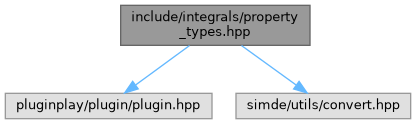
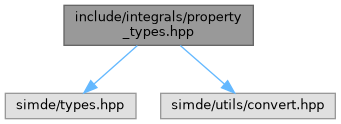
deploy: 89b65a1aafeb8caae40e4ccc60f7d78f3d80cacb

diff --git a/integrals_cxx_api/export__property__types_8hpp_source.html b/integrals_cxx_api/export__property__types_8hpp_source.html
@@ -5,7 +5,7 @@
 <meta http-equiv="X-UA-Compatible" content="IE=11"/>
 <meta name="generator" content="Doxygen 1.9.8"/>
 <meta name="viewport" content="width=device-width, initial-scale=1"/>
-<title>integrals: include/integrals/property_types.hpp Source File</title>
+<title>integrals: src/python/export_property_types.hpp Source File</title>
 <link href="tabs.css" rel="stylesheet" type="text/css"/>
 <script type="text/javascript" src="jquery.js"></script>
 <script type="text/javascript" src="dynsections.js"></script>
@@ -74,15 +74,15 @@ $(document).ready(function() { init_codefold(0); });
 
 <div id="nav-path" class="navpath">
   <ul>
-<li class="navelem"><a class="el" href="dir_d44c64559bbebec7f509842c48db8b23.html">include</a></li><li class="navelem"><a class="el" href="dir_e27e85dacbc4aa96e3483d9ff13306bd.html">integrals</a></li>  </ul>
+<li class="navelem"><a class="el" href="dir_68267d1309a1af8e8297ef4c3efbcdba.html">src</a></li><li class="navelem"><a class="el" href="dir_5c0d64f70903e893b1efe571a4b8de29.html">python</a></li>  </ul>
 </div>
 </div><!-- top -->
 <div class="header">
-  <div class="headertitle"><div class="title">property_types.hpp</div></div>
+  <div class="headertitle"><div class="title">export_property_types.hpp</div></div>
 </div><!--header-->
 <div class="contents">
-<a href="property__types_8hpp.html">Go to the documentation of this file.</a><div class="fragment"><div class="line"><a id="l00001" name="l00001"></a><span class="lineno">    1</span><span class="comment">/*</span></div>
-<div class="line"><a id="l00002" name="l00002"></a><span class="lineno">    2</span><span class="comment"> * Copyright 2025 NWChemEx-Project</span></div>
+<div class="fragment"><div class="line"><a id="l00001" name="l00001"></a><span class="lineno">    1</span><span class="comment">/*</span></div>
+<div class="line"><a id="l00002" name="l00002"></a><span class="lineno">    2</span><span class="comment"> * Copyright 2026 NWChemEx-Project</span></div>
 <div class="line"><a id="l00003" name="l00003"></a><span class="lineno">    3</span><span class="comment"> *</span></div>
 <div class="line"><a id="l00004" name="l00004"></a><span class="lineno">    4</span><span class="comment"> * Licensed under the Apache License, Version 2.0 (the &quot;License&quot;);</span></div>
 <div class="line"><a id="l00005" name="l00005"></a><span class="lineno">    5</span><span class="comment"> * you may not use this file except in compliance with the License.</span></div>
@@ -97,17 +97,21 @@ $(document).ready(function() { init_codefold(0); });
 <div class="line"><a id="l00014" name="l00014"></a><span class="lineno">   14</span><span class="comment"> * limitations under the License.</span></div>
 <div class="line"><a id="l00015" name="l00015"></a><span class="lineno">   15</span><span class="comment"> */</span></div>
 <div class="line"><a id="l00016" name="l00016"></a><span class="lineno">   16</span> </div>
-<div class="line"><a id="l00023" name="l00023"></a><span class="lineno">   23</span><span class="preprocessor">#pragma once</span></div>
-<div class="line"><a id="l00024" name="l00024"></a><span class="lineno">   24</span><span class="preprocessor">#include &lt;simde/types.hpp&gt;</span></div>
-<div class="line"><a id="l00025" name="l00025"></a><span class="lineno">   25</span><span class="preprocessor">#include &lt;simde/utils/convert.hpp&gt;</span></div>
-<div class="line"><a id="l00026" name="l00026"></a><span class="lineno">   26</span> </div>
-<div class="line"><a id="l00031" name="l00031"></a><span class="lineno">   31</span><span class="keyword">namespace </span><a class="code hl_namespace" href="namespaceintegrals_1_1property__types.html">integrals::property_types</a> {</div>
-<div class="line"><a id="l00032" name="l00032"></a><span class="lineno">   32</span> </div>
-<div class="line"><a id="l00033" name="l00033"></a><span class="lineno">   33</span><span class="keyword">using </span>DecontractBasisSet =</div>
-<div class="line"><a id="l00034" name="l00034"></a><span class="lineno">   34</span>  simde::Convert&lt;simde::type::ao_basis_set, simde::type::ao_basis_set&gt;;</div>
-<div class="line"><a id="l00035" name="l00035"></a><span class="lineno">   35</span> </div>
-<div class="line"><a id="l00036" name="l00036"></a><span class="lineno">   36</span>} <span class="comment">// end namespace integrals::property_types</span></div>
+<div class="line"><a id="l00017" name="l00017"></a><span class="lineno">   17</span><span class="preprocessor">#include &lt;<a class="code" href="property__types_8hpp.html">integrals/property_types.hpp</a>&gt;</span></div>
+<div class="line"><a id="l00018" name="l00018"></a><span class="lineno">   18</span><span class="preprocessor">#include &lt;pluginplay/property_type/property_type.hpp&gt;</span></div>
+<div class="line"><a id="l00019" name="l00019"></a><span class="lineno">   19</span> </div>
+<div class="line"><a id="l00020" name="l00020"></a><span class="lineno">   20</span><span class="keyword">namespace </span><a class="code hl_namespace" href="namespaceintegrals.html">integrals</a> {</div>
+<div class="line"><a id="l00021" name="l00021"></a><span class="lineno">   21</span> </div>
+<div class="line"><a id="l00022" name="l00022"></a><span class="lineno">   22</span><span class="keyword">inline</span> <span class="keywordtype">void</span> export_property_types(<span class="keyword">auto</span>&amp; m) {</div>
+<div class="line"><a id="l00023" name="l00023"></a><span class="lineno">   23</span>    <span class="keyword">using namespace </span><a class="code hl_namespace" href="namespaceintegrals_1_1property__types.html">integrals::property_types</a>;</div>
+<div class="line"><a id="l00024" name="l00024"></a><span class="lineno">   24</span> </div>
+<div class="line"><a id="l00025" name="l00025"></a><span class="lineno">   25</span>    EXPORT_PROPERTY_TYPE(DecontractBasisSet, m);</div>
+<div class="line"><a id="l00026" name="l00026"></a><span class="lineno">   26</span>}</div>
+<div class="line"><a id="l00027" name="l00027"></a><span class="lineno">   27</span> </div>
+<div class="line"><a id="l00028" name="l00028"></a><span class="lineno">   28</span>} <span class="comment">// namespace integrals</span></div>
 <div class="ttc" id="anamespaceintegrals_1_1property__types_html"><div class="ttname"><a href="namespaceintegrals_1_1property__types.html">integrals::property_types</a></div><div class="ttdoc">The namespace for property types defined by the Integrals library.</div></div>
+<div class="ttc" id="anamespaceintegrals_html"><div class="ttname"><a href="namespaceintegrals.html">integrals</a></div><div class="ttdoc">The primary namespace for the Integrals library.</div><div class="ttdef"><b>Definition</b> ao_integrals.hpp:20</div></div>
+<div class="ttc" id="aproperty__types_8hpp_html"><div class="ttname"><a href="property__types_8hpp.html">property_types.hpp</a></div></div>
 </div><!-- fragment --></div><!-- contents -->
 <!-- start footer part -->
 <hr class="footer"/><address class="footer"><small>

diff --git a/integrals_cxx_api/dir_000006_000002.html b/integrals_cxx_api/dir_000006_000002.html
@@ -5,7 +5,7 @@
 <meta http-equiv="X-UA-Compatible" content="IE=11"/>
 <meta name="generator" content="Doxygen 1.9.8"/>
 <meta name="viewport" content="width=device-width, initial-scale=1"/>
-<title>integrals: src Directory Reference</title>
+<title>integrals: src/python -&gt; include Relation</title>
 <link href="tabs.css" rel="stylesheet" type="text/css"/>
 <script type="text/javascript" src="jquery.js"></script>
 <script type="text/javascript" src="dynsections.js"></script>
@@ -69,37 +69,11 @@ $(function() {
 
 <div id="nav-path" class="navpath">
   <ul>
-<li class="navelem"><a class="el" href="dir_68267d1309a1af8e8297ef4c3efbcdba.html">src</a></li>  </ul>
+<li class="navelem"><a class="el" href="dir_68267d1309a1af8e8297ef4c3efbcdba.html">src</a></li><li class="navelem"><a class="el" href="dir_5c0d64f70903e893b1efe571a4b8de29.html">python</a></li>  </ul>
 </div>
 </div><!-- top -->
-<div class="header">
-  <div class="headertitle"><div class="title">src Directory Reference</div></div>
-</div><!--header-->
 <div class="contents">
-<div class="dynheader">
-Directory dependency graph for src:</div>
-<div class="dyncontent">
-<div class="center"><img src="dir_68267d1309a1af8e8297ef4c3efbcdba_dep.png" border="0" usemap="#adir__68267d1309a1af8e8297ef4c3efbcdba__dep" alt="src"/></div>
-<map name="adir__68267d1309a1af8e8297ef4c3efbcdba__dep" id="adir__68267d1309a1af8e8297ef4c3efbcdba__dep">
-<area shape="rect" href="dir_a50b49bc3b7c12e387f10bfc5a719320.html" title="integrals" alt="" coords="118,27,197,52"/>
-<area shape="rect" href="dir_d44c64559bbebec7f509842c48db8b23.html" title="include" alt="" coords="73,100,143,125"/>
-<area shape="poly" href="dir_000004_000002.html" alt="" coords="151,54,126,90,122,87,147,51"/>
-<area shape="rect" href="dir_000004_000002.html" title="1" alt="" coords="129,83,138,97"/>
-<area shape="rect" href="dir_5c0d64f70903e893b1efe571a4b8de29.html" title="python" alt="" coords="27,27,93,52"/>
-<area shape="poly" href="dir_000006_000002.html" alt="" coords="70,51,95,87,90,90,66,54"/>
-<area shape="rect" href="dir_000006_000002.html" title="1" alt="" coords="92,73,102,87"/>
-<area shape="rect" href="dir_68267d1309a1af8e8297ef4c3efbcdba.html" alt="" coords="16,16,273,63"/>
-</map>
-</div>
-<table class="memberdecls">
-<tr class="heading"><td colspan="2"><h2 class="groupheader"><a id="subdirs" name="subdirs"></a>
-Directories</h2></td></tr>
-<tr class="memitem:"><td class="memItemLeft" align="right" valign="top"><span class="iconfclosed"></span>&#160;</td><td class="memItemRight" valign="bottom"><a class="el" href="dir_a50b49bc3b7c12e387f10bfc5a719320.html">integrals</a></td></tr>
-<tr class="separator:"><td class="memSeparator" colspan="2">&#160;</td></tr>
-<tr class="memitem:"><td class="memItemLeft" align="right" valign="top"><span class="iconfclosed"></span>&#160;</td><td class="memItemRight" valign="bottom"><a class="el" href="dir_5c0d64f70903e893b1efe571a4b8de29.html">python</a></td></tr>
-<tr class="separator:"><td class="memSeparator" colspan="2">&#160;</td></tr>
-</table>
-</div><!-- contents -->
+<h3>python &rarr; include Relation</h3><table class="dirtab"><tr class="dirtab"><th class="dirtab">File in src/python</th><th class="dirtab">Includes file in include</th></tr><tr class="dirtab"><td class="dirtab"><b>export_property_types.hpp</b></td><td class="dirtab"><a class="el" href="dir_e27e85dacbc4aa96e3483d9ff13306bd.html">integrals</a>&#160;/&#160;<a class="el" href="property__types_8hpp.html">property_types.hpp</a></td></tr></table></div><!-- contents -->
 <!-- start footer part -->
 <hr class="footer"/><address class="footer"><small>
 Generated by&#160;<a href="https://www.doxygen.org/index.html"><img class="footer" src="doxygen.svg" width="104" height="31" alt="doxygen"/></a> 1.9.8

diff --git a/integrals_cxx_api/property__types_8hpp.html b/integrals_cxx_api/property__types_8hpp.html
@@ -79,18 +79,28 @@ $(function() {
   <div class="headertitle"><div class="title">property_types.hpp File Reference</div></div>
 </div><!--header-->
 <div class="contents">
-<div class="textblock"><code>#include &lt;pluginplay/plugin/plugin.hpp&gt;</code><br />
+<div class="textblock"><code>#include &lt;simde/types.hpp&gt;</code><br />
 <code>#include &lt;simde/utils/convert.hpp&gt;</code><br />
 </div><div class="textblock"><div class="dynheader">
 Include dependency graph for property_types.hpp:</div>
 <div class="dyncontent">
 <div class="center"><img src="property__types_8hpp__incl.png" border="0" usemap="#ainclude_2integrals_2property__types_8hpp" alt=""/></div>
 <map name="ainclude_2integrals_2property__types_8hpp" id="ainclude_2integrals_2property__types_8hpp">
-<area shape="rect" title=" " alt="" coords="121,5,310,45"/>
-<area shape="rect" title=" " alt="" coords="5,93,212,119"/>
-<area shape="poly" title=" " alt="" coords="191,48,137,87,134,83,188,43"/>
-<area shape="rect" title=" " alt="" coords="236,93,411,119"/>
-<area shape="poly" title=" " alt="" coords="243,43,297,83,294,87,240,48"/>
+<area shape="rect" title=" " alt="" coords="64,5,253,45"/>
+<area shape="rect" title=" " alt="" coords="5,93,136,119"/>
+<area shape="poly" title=" " alt="" coords="139,48,96,86,92,82,136,44"/>
+<area shape="rect" title=" " alt="" coords="161,93,335,119"/>
+<area shape="poly" title=" " alt="" coords="182,44,226,82,223,86,179,48"/>
+</map>
+</div>
+</div><div class="textblock"><div class="dynheader">
+This graph shows which files directly or indirectly include this file:</div>
+<div class="dyncontent">
+<div class="center"><img src="property__types_8hpp__dep__incl.png" border="0" usemap="#ainclude_2integrals_2property__types_8hppdep" alt=""/></div>
+<map name="ainclude_2integrals_2property__types_8hppdep" id="ainclude_2integrals_2property__types_8hppdep">
+<area shape="rect" title=" " alt="" coords="10,5,199,45"/>
+<area shape="rect" href="export__property__types_8hpp_source.html" title=" " alt="" coords="5,93,204,133"/>
+<area shape="poly" title=" " alt="" coords="107,59,107,93,102,93,102,59"/>
 </map>
 </div>
 </div>
@@ -107,9 +117,9 @@ Namespaces</h2></td></tr>
 </table><table class="memberdecls">
 <tr class="heading"><td colspan="2"><h2 class="groupheader"><a id="typedef-members" name="typedef-members"></a>
 Typedefs</h2></td></tr>
-<tr class="memitem:a740e5702b010b37dd812803f0054ea5f" id="r_a740e5702b010b37dd812803f0054ea5f"><td class="memItemLeft" align="right" valign="top"><a id="a740e5702b010b37dd812803f0054ea5f" name="a740e5702b010b37dd812803f0054ea5f"></a>
-using&#160;</td><td class="memItemRight" valign="bottom"><b>integrals::property_types::decontract_basis_set</b> = simde::Convert&lt; simde::type::ao_basis_set, simde::type::ao_basis_set &gt;</td></tr>
-<tr class="separator:a740e5702b010b37dd812803f0054ea5f"><td class="memSeparator" colspan="2">&#160;</td></tr>
+<tr class="memitem:ac58bab71fbe9d68b78905ad32ce3bcd4" id="r_ac58bab71fbe9d68b78905ad32ce3bcd4"><td class="memItemLeft" align="right" valign="top"><a id="ac58bab71fbe9d68b78905ad32ce3bcd4" name="ac58bab71fbe9d68b78905ad32ce3bcd4"></a>
+using&#160;</td><td class="memItemRight" valign="bottom"><b>integrals::property_types::DecontractBasisSet</b> = simde::Convert&lt; simde::type::ao_basis_set, simde::type::ao_basis_set &gt;</td></tr>
+<tr class="separator:ac58bab71fbe9d68b78905ad32ce3bcd4"><td class="memSeparator" colspan="2">&#160;</td></tr>
 </table>
 <a name="details" id="details"></a><h2 class="groupheader">Detailed Description</h2>
 <div class="textblock"><p>Property types defined by the Integrals library are defined here. It's likely that this file will be moved into a distinct subdirectory if more property types are added in the future. </p>

diff --git a/integrals_cxx_api/files.html b/integrals_cxx_api/files.html
@@ -95,6 +95,8 @@ $(function() {
 <tr id="row_1_0_2_" class="even"><td class="entry"><span style="width:32px;display:inline-block;">&#160;</span><span id="arr_1_0_2_" class="arrow" onclick="toggleFolder('1_0_2_')">&#9660;</span><span id="img_1_0_2_" class="iconfopen" onclick="toggleFolder('1_0_2_')">&#160;</span><a class="el" href="dir_ebc9bb773069c45f8a14dade3d742e88.html" target="_self">utils</a></td><td class="desc"></td></tr>
 <tr id="row_1_0_2_0_" class="odd"><td class="entry"><span style="width:64px;display:inline-block;">&#160;</span><a href="utils_8hpp_source.html"><span class="icondoc"></span></a><a class="el" href="utils_8hpp.html" target="_self">utils.hpp</a></td><td class="desc"></td></tr>
 <tr id="row_1_0_3_" class="even"><td class="entry"><span style="width:48px;display:inline-block;">&#160;</span><a href="uncertain__types_8hpp_source.html"><span class="icondoc"></span></a><b>uncertain_types.hpp</b></td><td class="desc"></td></tr>
+<tr id="row_1_1_" class="odd"><td class="entry"><span style="width:16px;display:inline-block;">&#160;</span><span id="arr_1_1_" class="arrow" onclick="toggleFolder('1_1_')">&#9660;</span><span id="img_1_1_" class="iconfopen" onclick="toggleFolder('1_1_')">&#160;</span><a class="el" href="dir_5c0d64f70903e893b1efe571a4b8de29.html" target="_self">python</a></td><td class="desc"></td></tr>
+<tr id="row_1_1_0_" class="even"><td class="entry"><span style="width:48px;display:inline-block;">&#160;</span><a href="export__property__types_8hpp_source.html"><span class="icondoc"></span></a><b>export_property_types.hpp</b></td><td class="desc"></td></tr>
 </table>
 </div><!-- directory -->
 </div><!-- contents -->

diff --git a/integrals_cxx_api/namespaceintegrals.html b/integrals_cxx_api/namespaceintegrals.html
@@ -102,6 +102,9 @@ void&#160;</td><td class="memItemRight" valign="bottom"><b>load_modules</b> (plu
 <tr class="memitem:a1e7617278d0d1daf4a8a50d1f5a697c8" id="r_a1e7617278d0d1daf4a8a50d1f5a697c8"><td class="memItemLeft" align="right" valign="top"><a id="a1e7617278d0d1daf4a8a50d1f5a697c8" name="a1e7617278d0d1daf4a8a50d1f5a697c8"></a>
 &#160;</td><td class="memItemRight" valign="bottom"><b>EXPORT_PLUGIN</b> (integrals, m)</td></tr>
 <tr class="separator:a1e7617278d0d1daf4a8a50d1f5a697c8"><td class="memSeparator" colspan="2">&#160;</td></tr>
+<tr class="memitem:acd10b2e2d0a86a485a9e4f8c779a9529" id="r_acd10b2e2d0a86a485a9e4f8c779a9529"><td class="memItemLeft" align="right" valign="top"><a id="acd10b2e2d0a86a485a9e4f8c779a9529" name="acd10b2e2d0a86a485a9e4f8c779a9529"></a>
+void&#160;</td><td class="memItemRight" valign="bottom"><b>export_property_types</b> (auto &amp;m)</td></tr>
+<tr class="separator:acd10b2e2d0a86a485a9e4f8c779a9529"><td class="memSeparator" colspan="2">&#160;</td></tr>
 <tr class="memitem:a8060f98ec1ad9ba275c573fc1baff3dc" id="r_a8060f98ec1ad9ba275c573fc1baff3dc"><td class="memItemLeft" align="right" valign="top">&#160;</td><td class="memItemRight" valign="bottom"><a class="el" href="namespaceintegrals.html#a8060f98ec1ad9ba275c573fc1baff3dc">DECLARE_PLUGIN</a> (integrals)</td></tr>
 <tr class="memdesc:a8060f98ec1ad9ba275c573fc1baff3dc"><td class="mdescLeft">&#160;</td><td class="mdescRight">Load this plugin's modules into a Module Manager.  <br /></td></tr>
 <tr class="separator:a8060f98ec1ad9ba275c573fc1baff3dc"><td class="memSeparator" colspan="2">&#160;</td></tr>

diff --git a/integrals_cxx_api/namespaceintegrals_1_1utils.html b/integrals_cxx_api/namespaceintegrals_1_1utils.html
@@ -85,9 +85,9 @@ $(function() {
 <table class="memberdecls">
 <tr class="heading"><td colspan="2"><h2 class="groupheader"><a id="typedef-members" name="typedef-members"></a>
 Typedefs</h2></td></tr>
-<tr class="memitem:ac7fe16b686cad902d9aa2ca36c25a35b" id="r_ac7fe16b686cad902d9aa2ca36c25a35b"><td class="memItemLeft" align="right" valign="top"><a id="ac7fe16b686cad902d9aa2ca36c25a35b" name="ac7fe16b686cad902d9aa2ca36c25a35b"></a>
-using&#160;</td><td class="memItemRight" valign="bottom"><b>pt</b> = integrals::property_types::decontract_basis_set</td></tr>
-<tr class="separator:ac7fe16b686cad902d9aa2ca36c25a35b"><td class="memSeparator" colspan="2">&#160;</td></tr>
+<tr class="memitem:aafa1169241ca9813c7fbd8e7b7d36002" id="r_aafa1169241ca9813c7fbd8e7b7d36002"><td class="memItemLeft" align="right" valign="top"><a id="aafa1169241ca9813c7fbd8e7b7d36002" name="aafa1169241ca9813c7fbd8e7b7d36002"></a>
+using&#160;</td><td class="memItemRight" valign="bottom"><b>pt</b> = integrals::property_types::DecontractBasisSet</td></tr>
+<tr class="separator:aafa1169241ca9813c7fbd8e7b7d36002"><td class="memSeparator" colspan="2">&#160;</td></tr>
 <tr class="memitem:a0905600fe8a84ef5e4c09a6c3103ac5d" id="r_a0905600fe8a84ef5e4c09a6c3103ac5d"><td class="memItemLeft" align="right" valign="top"><a id="a0905600fe8a84ef5e4c09a6c3103ac5d" name="a0905600fe8a84ef5e4c09a6c3103ac5d"></a>
 using&#160;</td><td class="memItemRight" valign="bottom"><b>mol_basis_t</b> = simde::type::ao_basis_set</td></tr>
 <tr class="separator:a0905600fe8a84ef5e4c09a6c3103ac5d"><td class="memSeparator" colspan="2">&#160;</td></tr>

diff --git a/integrals_cxx_api/dir_5c0d64f70903e893b1efe571a4b8de29.html b/integrals_cxx_api/dir_5c0d64f70903e893b1efe571a4b8de29.html
@@ -82,9 +82,18 @@ Directory dependency graph for python:</div>
 <div class="center"><img src="dir_5c0d64f70903e893b1efe571a4b8de29_dep.png" border="0" usemap="#adir__5c0d64f70903e893b1efe571a4b8de29__dep" alt="src/python"/></div>
 <map name="adir__5c0d64f70903e893b1efe571a4b8de29__dep" id="adir__5c0d64f70903e893b1efe571a4b8de29__dep">
 <area shape="rect" href="dir_5c0d64f70903e893b1efe571a4b8de29.html" title="python" alt="" coords="27,52,93,77"/>
+<area shape="rect" href="dir_d44c64559bbebec7f509842c48db8b23.html" title="include" alt="" coords="25,125,95,151"/>
+<area shape="poly" href="dir_000006_000002.html" alt="" coords="63,78,63,112,57,112,57,78"/>
+<area shape="rect" href="dir_000006_000002.html" title="1" alt="" coords="64,100,73,114"/>
 <area shape="rect" href="dir_68267d1309a1af8e8297ef4c3efbcdba.html" title="src" alt="" coords="16,16,104,88"/>
 </map>
 </div>
+<table class="memberdecls">
+<tr class="heading"><td colspan="2"><h2 class="groupheader"><a id="files" name="files"></a>
+Files</h2></td></tr>
+<tr class="memitem:"><td class="memItemLeft" align="right" valign="top"><a href="export__property__types_8hpp_source.html"><span class="icondoc"></span></a>&#160;</td><td class="memItemRight" valign="bottom"><b>export_property_types.hpp</b></td></tr>
+<tr class="separator:"><td class="memSeparator" colspan="2">&#160;</td></tr>
+</table>
 </div><!-- contents -->
 <!-- start footer part -->
 <hr class="footer"/><address class="footer"><small>

diff --git a/integrals_cxx_api/namespaceintegrals_1_1property__types.html b/integrals_cxx_api/namespaceintegrals_1_1property__types.html
@@ -84,9 +84,9 @@ $(function() {
 <table class="memberdecls">
 <tr class="heading"><td colspan="2"><h2 class="groupheader"><a id="typedef-members" name="typedef-members"></a>
 Typedefs</h2></td></tr>
-<tr class="memitem:a740e5702b010b37dd812803f0054ea5f" id="r_a740e5702b010b37dd812803f0054ea5f"><td class="memItemLeft" align="right" valign="top"><a id="a740e5702b010b37dd812803f0054ea5f" name="a740e5702b010b37dd812803f0054ea5f"></a>
-using&#160;</td><td class="memItemRight" valign="bottom"><b>decontract_basis_set</b> = simde::Convert&lt; simde::type::ao_basis_set, simde::type::ao_basis_set &gt;</td></tr>
-<tr class="separator:a740e5702b010b37dd812803f0054ea5f"><td class="memSeparator" colspan="2">&#160;</td></tr>
+<tr class="memitem:ac58bab71fbe9d68b78905ad32ce3bcd4" id="r_ac58bab71fbe9d68b78905ad32ce3bcd4"><td class="memItemLeft" align="right" valign="top"><a id="ac58bab71fbe9d68b78905ad32ce3bcd4" name="ac58bab71fbe9d68b78905ad32ce3bcd4"></a>
+using&#160;</td><td class="memItemRight" valign="bottom"><b>DecontractBasisSet</b> = simde::Convert&lt; simde::type::ao_basis_set, simde::type::ao_basis_set &gt;</td></tr>
+<tr class="separator:ac58bab71fbe9d68b78905ad32ce3bcd4"><td class="memSeparator" colspan="2">&#160;</td></tr>
 </table>
 <a name="details" id="details"></a><h2 class="groupheader">Detailed Description</h2>
 <div class="textblock"><p>The namespace for property types defined by the Integrals library. </p>
